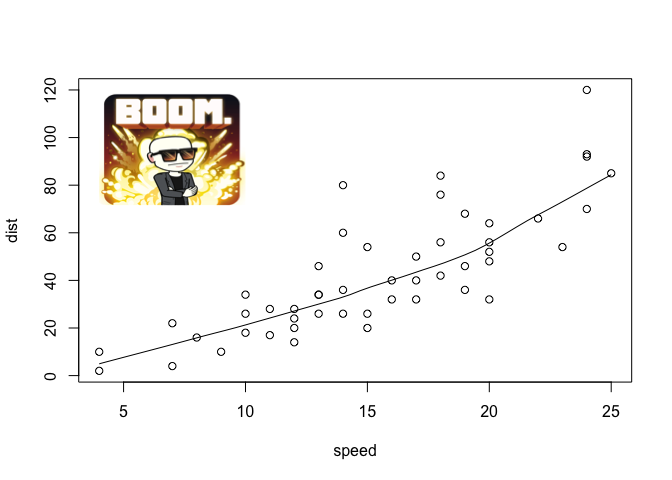
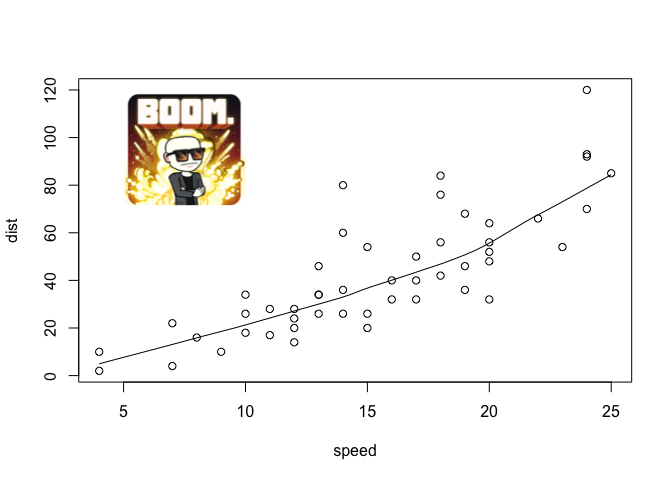
change dim

Changed region(s): [[0.125, 0.1875, 0.375, 0.4375]]

diff --git a/README.md b/README.md
@@ -42,7 +42,7 @@ plot(as.raster(img))
 
 # Overlay Bitmoji on another plot
 scatter.smooth(cars)
-rasterImage(img, 4, 70, 10, 120)
+rasterImage(img, 5, 70, 10, 120)
 ```
 
 <img src="tools/README-unnamed-chunk-1-2.png" style="display: block; margin: auto;" />
